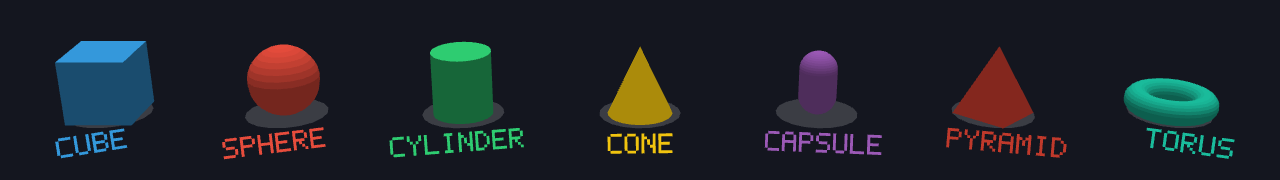
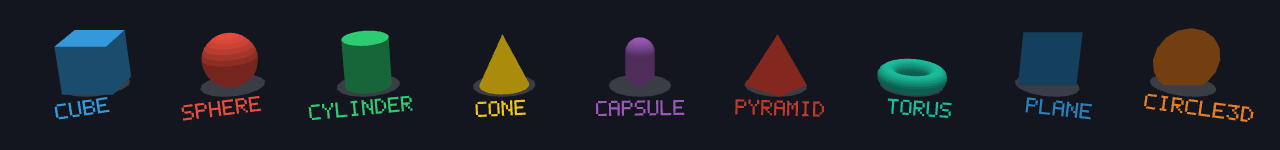
docs: add Easing/RandomUtil/Noise/TextureUtil/Camera2D guide illustrations
Five guides that were previously text-only now show what they describe:

- Easing_Guide.md: all 31 curves plotted, In/Out/In-Out overlaid per family.
- RandomUtil_Guide.md: scatter plots per distribution plus a weighted-pick
  bar chart -- the shape difference between "inside" and "on" a unit
  circle is exactly the kind of thing easy to mix up by name alone.
- Noise_Guide.md: grayscale samples of plain/fBm/ridge/turbulence noise.
- TextureUtil_Guide.md: every generation function and transform, before/after.
- Camera2D_Guide.md: the same virtual resolution and test pattern through
  Boxing/Scaling/Cover side by side.

All four rendered through the library itself (Primitive2DBatch/TextureUtil/
the real ViewportAdapter2D classes), not an external plotting tool.

Also: Showcase2D's hexagon is now FillPolyRounded (soft corners, matching
the rest of the card grid's style); Showcase3D grows from 7 to 9 shapes
(added Plane and Circle3D, both oriented to face the curated camera instead
of their ground-facing defaults). Regenerated img/hero.png, gallery_2d.png,
gallery_3d.png from the updated showcases.

Changed region(s): [[0.0312, 0.1867, 0.4375, 0.88], [0.5625, 0.1867, 1.0, 0.88], [0.4688, 0.24, 0.5312, 0.88]]

diff --git a/samples/MonoPrimitives.Sample/Showcase3D.cs b/samples/MonoPrimitives.Sample/Showcase3D.cs
@@ -25,7 +25,7 @@ internal static class Showcase3D
 
     private readonly record struct Item(string Label, Color Color, Action<Primitive3DBatch, Vector3, Color> Draw);
 
-    // Seven iconic primitives in a single row, not Gallery3D's full 14-row-deep surface. A single
+    // Nine iconic primitives in a single row, not Gallery3D's full 14-row-deep surface. A single
     // row keeps every shape at the same camera distance -- two rows at different depths made the
     // far row noticeably smaller and pushed the framing math around fighting that mismatch,
     // exactly the kind of "show less but show it well" tradeoff this class exists for. Base
@@ -41,6 +41,13 @@ internal static class Showcase3D
         // A pyramid is just a cone with 4 sides instead of a smooth 24 -- same method as CONE.
         new("PYRAMID", Palette.Pomegranate, (b, c, col) => b.FillCylinder(c, 0f, 1.5f, 2.6f, 4, col)),
         new("TORUS", Palette.Turquoise, (b, c, col) => b.FillTorus(c + Vector3.UnitY * 0.45f, 1.2f, 0.45f, 24, 24, col)),
+        // Backward (+Z) faces back toward the curated camera (positioned on the +Z side, see
+        // Game1.ToggleShowcaseMode) instead of the default XZ/ground-facing orientation, which
+        // would appear edge-on and unreadable from this angle.
+        new("PLANE", Palette.BelizeHole, (b, c, col) => b.FillPlane(c + Vector3.UnitY * 1.3f, new Vector2(2.8f, 2.8f), Vector3.Backward, col)),
+        // Default rotation (angle=0) already lies in the XY plane -- facing the camera, same
+        // reasoning as PLANE above, no extra rotation needed.
+        new("CIRCLE3D", Palette.Carrot, (b, c, col) => b.FillCircle3D(c + Vector3.UnitY * 1.3f, 1.6f, Vector3.UnitX, 0f, col)),
     };
 
     /// <summary>World bounds of the curated grid, without drawing anything -- for framing a camera before the first <see cref="Draw"/> call.</summary>

diff --git a/samples/MonoPrimitives.Sample/Showcase2D.cs b/samples/MonoPrimitives.Sample/Showcase2D.cs
@@ -32,7 +32,7 @@ internal static class Showcase2D
         // each end, so total extent is length + 2*radius (70 + 70 = 140, matching the other
         // shapes' ~140 footprint instead of overflowing the card).
         new("CAPSULE", Palette.Emerald, (b, c) => b.FillCapsule(c, 70f, 35f, Palette.Emerald, MathF.PI / 2f)),
-        new("HEXAGON", Palette.Turquoise, (b, c) => b.FillPoly(c, 6, 72f, Palette.Turquoise)),
+        new("HEXAGON", Palette.Turquoise, (b, c) => b.FillPolyRounded(c, 6, 72f, 10f, Palette.Turquoise)),
         new("PENTAGON", Palette.BelizeHole, (b, c) => b.FillPoly(c, 5, 74f, Palette.BelizeHole, -MathF.PI / 2f)),
         // FillPoly's default rotation=0 already places a 4-gon's vertices on the axes (a diamond,
         // not a square -- that needs the extra PI/4 rotation this deliberately skips).

diff --git a/samples/MonoPrimitives.Sample/Game1.cs b/samples/MonoPrimitives.Sample/Game1.cs
@@ -178,7 +178,7 @@ public class Game1 : Game
             Vector3 center = Showcase3D.GetContentCenter();
             _camera3d.Fovy = 30f;
             _camera3d.Target = center;
-            _camera3d.Position = center + new Vector3(0f, 17f, 46f);
+            _camera3d.Position = center + new Vector3(0f, 22f, 60f);
         }
     }
 

diff --git a/Guide/Camera2D_Guide.md b/Guide/Camera2D_Guide.md
@@ -187,6 +187,9 @@ All five share one surface (`VirtualWidth`/`VirtualHeight`/`Scale`/`Offset`/`Bou
 | `ScalingViewportAdapter2D` | Fixed virtual resolution, independent per-axis scale, fills the window exactly | No | Filling the window matters more than preserving the virtual resolution's aspect ratio, and non-uniform stretch is acceptable. |
 | `CoverViewportAdapter2D` | Fixed virtual resolution, uniform scale (fills the window completely), preserves aspect ratio | No (crops instead) | The inverse tradeoff from Boxing: never show bars, and cropping some content on one axis is preferable to distorting the aspect ratio. Matches CSS's `object-fit: cover`. |
 
+![The same square virtual resolution and test pattern through Boxing, Scaling, and Cover](../img/viewport_adapters.png)
+<br><sub>Left to right: **Boxing** pillarboxes (the circle stays round, bars fill the leftover width), **Scaling** stretches to fill exactly (the circle becomes an ellipse, no bars), **Cover** crops to fill (the circle stays round, the grid overflows top and bottom). Same 900×900 virtual resolution against the same wide window throughout.</sub>
+
 ```csharp
 var adapter = new BoxingViewportAdapter2D(GraphicsDevice, virtualWidth: 480, virtualHeight: 270);
 ```

diff --git a/Guide/Noise_Guide.md b/Guide/Noise_Guide.md
@@ -2,6 +2,9 @@
 
 `Noise` (namespace `MonoPrimitives`, file [`src/Core/Noise.cs`](../src/Core/Noise.cs)) is seedable gradient (Perlin-style) noise — smooth, deterministic pseudo-randomness for terrain heightmaps, procedural texture-like effects, or any "organic" variation that should look continuous rather than static-y. The core algorithm is a direct, line-by-line match of Ken Perlin's own "improved noise" (2002) reference implementation.
 
+![Grayscale samples of plain Perlin noise, fBm, ridged, and turbulence](../img/noise.png)
+<br><sub>Same seed and octave count throughout — the visible difference is purely each variant's own formula: fBm is smooth/cloudy, ridge traces bright veins, turbulence stays sharp and billowy.</sub>
+
 ## Quick start
 
 ```csharp

diff --git a/Guide/Easing_Guide.md b/Guide/Easing_Guide.md
@@ -2,6 +2,9 @@
 
 `Easing` (namespace `MonoPrimitives`, file [`src/Core/Easing.cs`](../src/Core/Easing.cs)) is a static class of classic 0→1 tweening curves for one-shot animations with a known duration — a menu sliding in, an object scaling up, a color fading out. Every formula matches the canonical easings.net/Penner reference set.
 
+![All 31 easing curves plotted, In/Out/In-Out overlaid per family](../img/easing.png)
+<br><sub>Back and Elastic overshoot past 0 and 1 on purpose — that's the "spring past the target, settle back" look, not a bug.</sub>
+
 ## Quick start
 
 ```csharp

diff --git a/Guide/RandomUtil_Guide.md b/Guide/RandomUtil_Guide.md
@@ -4,6 +4,9 @@
 
 This guide explains what each method does, when to reach for it, how the distributions are actually computed internally, and how to use `RandomUtil` safely across single-threaded and multi-threaded code.
 
+![Scatter plots of Gaussian, inside-unit-circle, on-unit-circle, and uniform sampling, plus a weighted-pick bar chart](../img/random_util.png)
+<br><sub>500 samples each (4000 for the weighted-pick histogram) — the shape difference between "inside" and "on" a unit circle is the kind of thing easy to mix up by name alone.</sub>
+
 ## Quick start
 
 ```csharp

diff --git a/Guide/TextureUtil_Guide.md b/Guide/TextureUtil_Guide.md
@@ -2,6 +2,9 @@
 
 `TextureUtil` (namespace `MonoPrimitives`, file [`src/Core/TextureUtil.cs`](../src/Core/TextureUtil.cs)) generates procedural textures and transforms existing ones — the CPU pixel-buffer utilities MonoGame's own `Texture2D` doesn't provide.
 
+![Every generation function and transform, before and after](../img/texture_util.png)
+<br><sub>The bottom three rows all start from the same `(BASE) RADIAL` gradient texture.</sub>
+
 ## Quick start
 
 ```csharp
